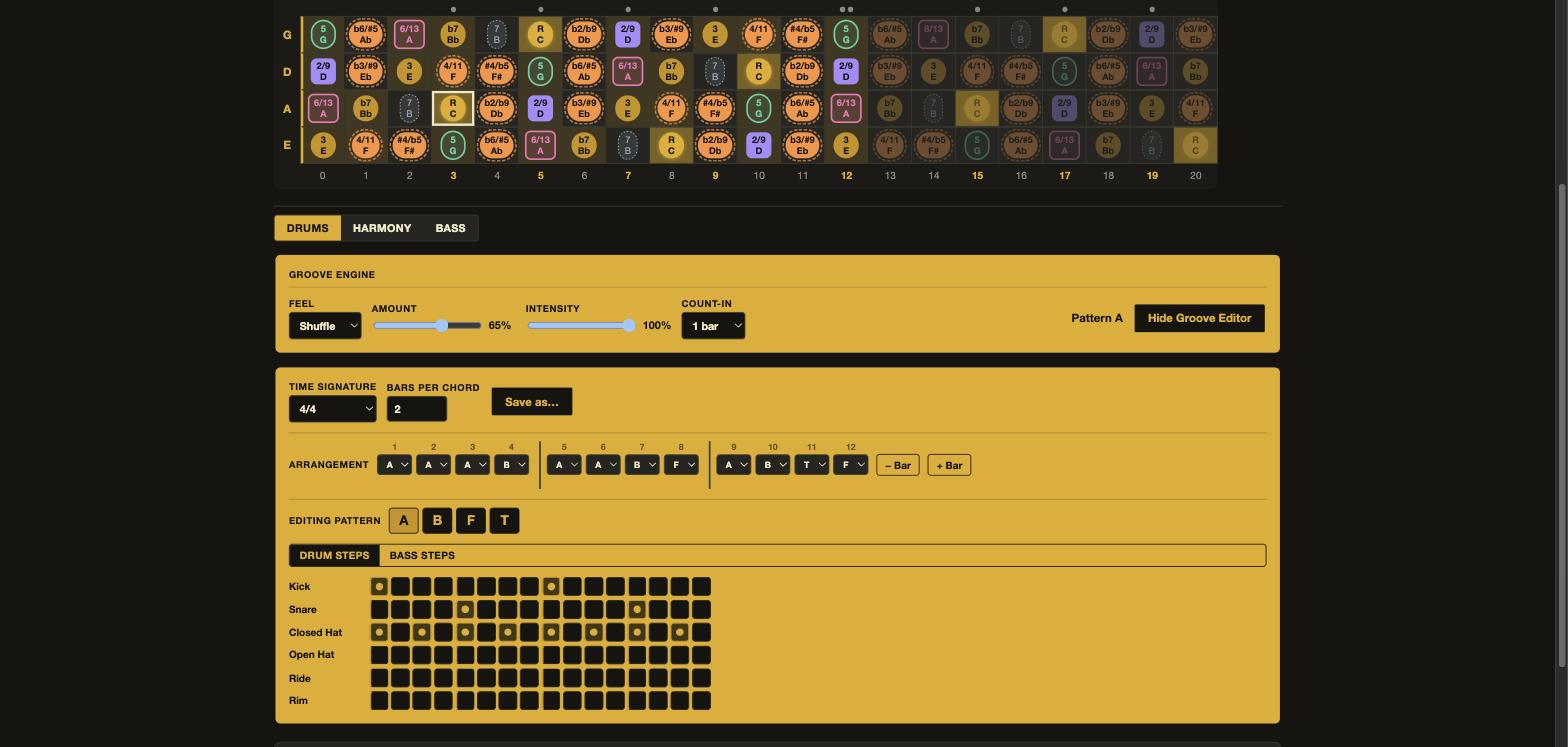
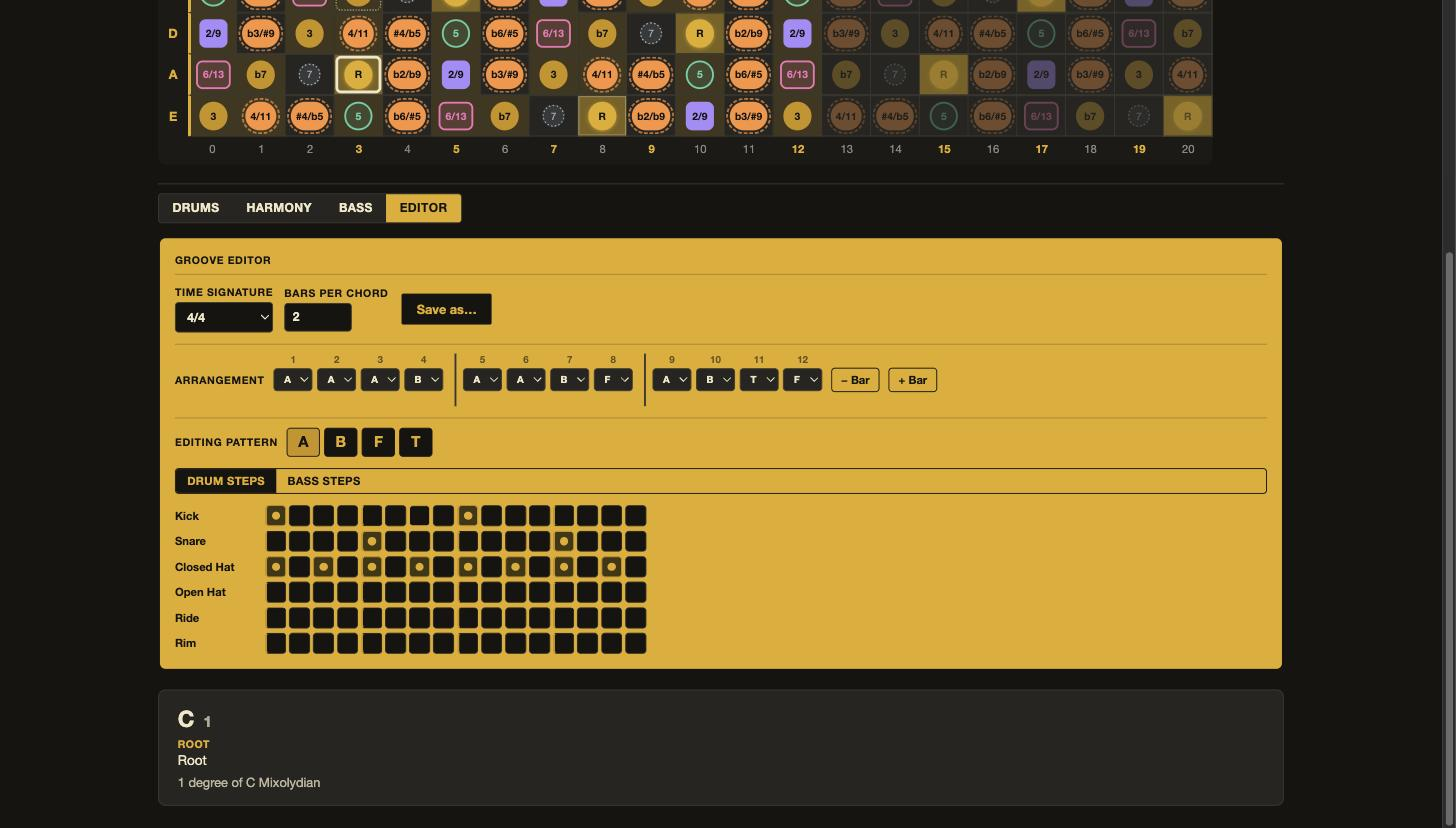
docs: refresh README screenshots and architecture overview
Every existing screenshot predated the Editor-tab reorg (they still
showed the old "Edit Groove" toggle button and a 3-tab Drums/Harmony/
Bass bar) -- retaken live against the current app. Adds a new
chord-pad-fx.jpg showing the chord pad's seven-effect rack (Fuzz/
Reverb/Delay/Chorus/Phaser/Flanger/Tremolo), none of which was
documented anywhere in the README before.

"How it's built" file tree updated to match the current source layout:
music/bassline/ (the algorithmic generator), chord-pad-fx.ts and the
new chord-pad-fx/ domain, and acid-bass/'s newer files (delay.ts,
distortion.ts, generation-context.ts, generated-playback.ts,
intelligence.ts, glossary.ts) -- all previously undocumented.

diff --git a/README.md b/README.md
@@ -13,7 +13,7 @@ FretField is an interactive bass-fretboard application that teaches the neck as 
 |                 |                                                                                                                                                                                                                                                                                                                                                                                                                                                                                                                                                                                                                                                                  |
 | --------------- | ---------------------------------------------------------------------------------------------------------------------------------------------------------------------------------------------------------------------------------------------------------------------------------------------------------------------------------------------------------------------------------------------------------------------------------------------------------------------------------------------------------------------------------------------------------------------------------------------------------------------------------------------------------------- |
 | 🔎 **Explore**  | **Chord Field** — click any fret to set a root, pick a chord, and see the full 12-tone Harmonic Field light up around it: root, structural, stable, extension, color, tension, alteration, chromatic-approach, avoid.                                                                                                                                                                                                                                                                                                                                                                                                                                            |
-| 🎯 **Practice** | **Scale Practice** — pick a root/scale/fret-zone (or a chord progression instead), every note of the scale lights up at once, whatever you actually play is highlighted live, and a synthesized band — a multi-voice drum machine, an optional chord pad, and an optional 303-style Acid Bass synth — keeps time alongside it. Acid Bass can also generate its own harmonically-aware basslines: pick a style (Rooted/Funk/Acid/Chromatic/Melodic/Walking, with context-sensitive recommendations from the current progression), and each generated note maps back onto real, playable fretboard positions, with a plain-language explanation of why it's there. |
+| 🎯 **Practice** | **Scale Practice** — pick a root/scale/fret-zone (or a chord progression instead), every note of the scale lights up at once, whatever you actually play is highlighted live, and a synthesized band — a multi-voice drum machine, an optional chord pad (with its own seven-effect Fuzz/Reverb/Delay/Chorus/Phaser/Flanger/Tremolo rack), and an optional 303-style Acid Bass synth — keeps time alongside it. Acid Bass can also generate its own harmonically-aware basslines: pick a style (Rooted/Funk/Acid/Chromatic/Melodic/Walking, with context-sensitive recommendations from the current progression), and each generated note maps back onto real, playable fretboard positions, with a plain-language explanation of why it's there. |
 
 **Live Input** (an optional layer over both destinations) turns on your bass's actual pitch: play through a USB interface or mic and FretField highlights the real note, live, in Chord Field's harmonic-role colors or Scale Practice's scale tint. Audio is analyzed locally in your browser and never recorded or uploaded.
 
@@ -43,12 +43,21 @@ FretField is an interactive bass-fretboard application that teaches the neck as 
 <tr>
 <td width="50%">
 
-**Acid Bass** — the 303-style synth bass: dual oscillators plus sub, filter, five modulation sources, three distortion characters, and a tempo-synced delay
+**Acid Bass** — the 303-style synth bass: dual oscillators plus sub, filter, and envelope, with five modulation sources beneath
 
-<img src="./docs/screenshots/acid-bass.jpg" alt="The Acid Bass Engine's VCO, Sub, Osc 2, VCF, and ENV panels, with the Squelch filter model selected and the ENV panel's live envelope-shape scope visible, plus the LFO 1/LFO 2/Env Mod/Accent Mod/Random Mod panel row beneath">
+<img src="./docs/screenshots/acid-bass.jpg" alt="The Acid Bass Engine's VCO, Sub, Osc 2, VCF, and ENV panels, with the Squelch filter model selected, plus the start of the LFO 1/LFO 2/Env Mod/Accent Mod/Random Mod panel row beneath">
 
 </td>
 <td width="50%">
+
+**Chord Pad FX** — the chord pad's own seven-effect rack
+
+<img src="./docs/screenshots/chord-pad-fx.jpg" alt="The chord pad's Fuzz, Reverb, Delay, Chorus, Phaser, Flanger, and Tremolo panels, each with an On/Off toggle and its own knobs">
+
+</td>
+</tr>
+<tr>
+<td colspan="2">
 
 **Groove Editor** — the multi-bar arrangement and step grid
 
@@ -75,7 +84,10 @@ src/lib/music/
 ├── progressions.ts            declarative progression templates (Scale Practice's chord backing)
 ├── absolute-pitch.ts          MIDI-based fretboard mapping for Live Input
 ├── live-position.ts           ambiguous-position ranking for Live Input
-└── scales.ts                  scale definitions + family-aware suggestions
+├── scales.ts                  scale definitions + family-aware suggestions
+└── bassline/                  the algorithmic bassline generator, zero Svelte/DOM/audio imports:
+    rhythm → harmonic candidates → voice-leading (bounded beam search) → chromaticism →
+    register/playability realization → articulation → a plain-language explanation per note
 
 src/lib/audio/
 ├── types.ts                    DetectedNote, LiveNoteState, the LiveAudioSource abstraction
@@ -86,8 +98,10 @@ src/lib/audio/
 ├── fake-audio-source.ts        deterministic capture double, used by tests
 ├── drum-voices.ts              the Groove Engine's six synthesized drum voices
 ├── chord-voices.ts             the optional chord-progression backing pad
+├── chord-pad-fx.ts             the chord pad's seven-effect Fuzz/Reverb/Delay/Chorus/
+│                                Phaser/Flanger/Tremolo rack
 ├── acid-bass-voice.ts          the Acid Bass synth's persistent monophonic voice
-├── acid-bass-lfo.ts            its one free-running, tempo-syncable LFO
+├── acid-bass-lfo.ts            its two free-running, tempo-syncable LFOs
 └── acid-worklet-node.ts        loads the acid24 filter + Pulse-oscillator AudioWorklets
 
 src/lib/groove/
@@ -102,12 +116,24 @@ src/lib/groove/
 src/lib/acid-bass/
 ├── types.ts / pattern.ts        AcidBassPatch/Step data model + pure mutators
 ├── resolve.ts                    every patch-macro-to-DSP-parameter mapping
-├── migrate.ts                    V1→V2 migration + untrusted-persisted-data validation
+├── migrate.ts                    V1→V4 migration + untrusted-persisted-data validation
 ├── sequencer.ts                  deterministic probability, ratchet, parameter locks
-├── factory-patches.ts            eight curated patches
+├── delay.ts                      the tempo-synced delay's division/feedback/mix math
+├── distortion.ts                 the Soft/Diode/Hard shared drive-and-saturation curves
+├── generation-context.ts         bridges Scale Practice/Groove state into the bassline generator
+├── generated-playback.ts         the common audio-ready shape both manual and generated steps resolve to
+├── intelligence.ts               maps a generated note's own context onto expression (accent/gate/…)
+├── glossary.ts                   plain-language reference text for every knob on the panel
+├── factory-patches.ts            fourteen curated patches
 ├── transforms.ts                 basic pattern-wide transforms (rotate/simplify/densify/…)
 ├── acid24-ladder.ts              the acid24 filter's DSP, as a tested pure function
 └── pulse-oscillator.ts           the live-PWM Pulse oscillator's DSP, as a tested pure function
+
+src/lib/chord-pad-fx/
+├── types.ts                    ChordPadFxState — one enabled+macros sub-patch per effect
+├── resolve.ts                    every effect's own macro-to-DSP-parameter mapping
+├── pattern.ts                    default state (everything off)
+└── migrate.ts                    version-branch migration as the effect set has grown
 
 src/lib/scale-practice/
 ├── types.ts                    PracticeZone
@@ -116,12 +142,14 @@ src/lib/scale-practice/
 src/lib/components/hardware/
 └── Led.svelte, HardwarePanel.svelte, HardwareButton.svelte, Knob.svelte
     the 2026 visual rebrand's reusable primitives — a real rotary Knob with full
-    keyboard support, used across Acid Bass's two dozen-plus patch macros
+    keyboard support, used across both Acid Bass's and the Chord Pad FX rack's patch macros
 ```
 
 `src/lib/audio/` only ever knows about acoustic pitch, plain Hz frequencies, and MIDI numbers — it has no concept of a chord, a key, or a scale. Harmonic meaning is layered on afterward: `src/lib/stores/live-input.svelte.ts` combines a detected note with whatever `src/lib/music/` analysis is already on screen, and `src/lib/stores/scale-practice.svelte.ts` resolves each Groove/Acid Bass step's interval into a frequency (via `resolveAcidStepMidi`/`midiToFrequency`) right before calling into the voice — never a second harmony engine living inside the audio layer itself.
 
 The Groove Engine and Acid Bass Engine share one `GrooveTransport` clock and one `AudioContext` — drums, the chord pad, and the bass line can never drift apart onto separate timers. Acid Bass's `acid24` filter and its Pulse oscillator's live width modulation both run on dedicated `AudioWorkletNode`s, each with a hand-authored, dependency-free processor under `static/` and a pure, independently unit-tested TypeScript twin of the same DSP math (`AudioWorkletProcessor` can't run inside the test environment) — and each falls back silently to a non-worklet approximation if the worklet never loads, logged to the console only, never a user-facing error.
+
+The chord pad's FX rack (`src/lib/chord-pad-fx/`, driving `chord-pad-fx.ts`) is a separate self-contained domain from Acid Bass, even though both sit inside the Groove Engine — every effect but Tremolo is a dry-signal-preserving insert (its own always-on dry path plus a single mix-scaled send into that effect's own wet processing), so disabling any of them, or setting its mix to zero, reproduces exactly dry output. Reverb, and Phaser's shared-LFO allpass sweep, are both built entirely from plain `DelayNode`/`GainNode`/`BiquadFilterNode` primitives rather than a convolution reverb or a custom filter — this app has no external audio assets anywhere.
 
 Every non-trivial harmonic claim in the engine is checked against a concrete example from the product spec rather than "the tests pass" alone — e.g. the full Harmonic Field over C7 is asserted against `BLUEPRINT.md`'s own worked table.
 
